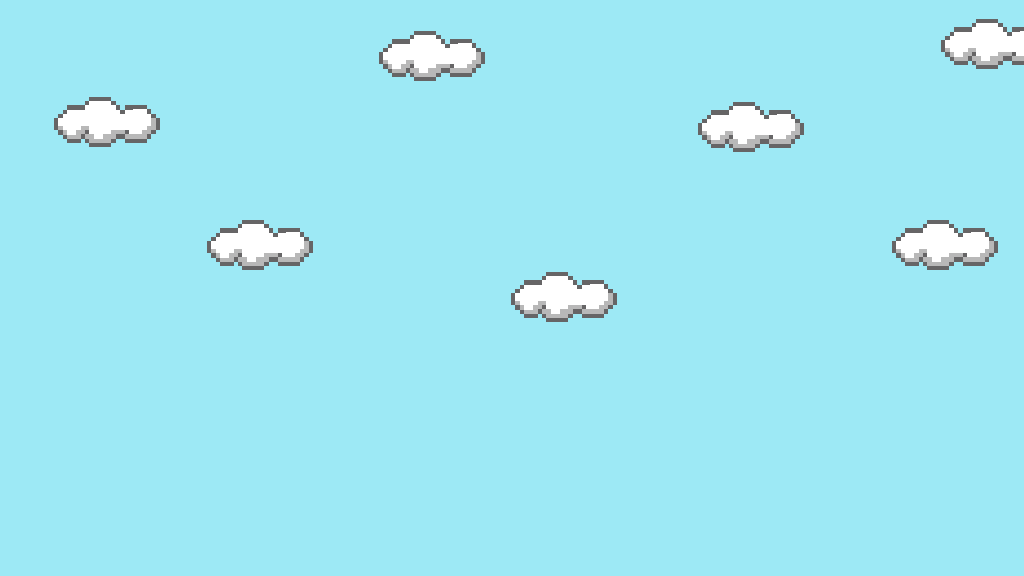
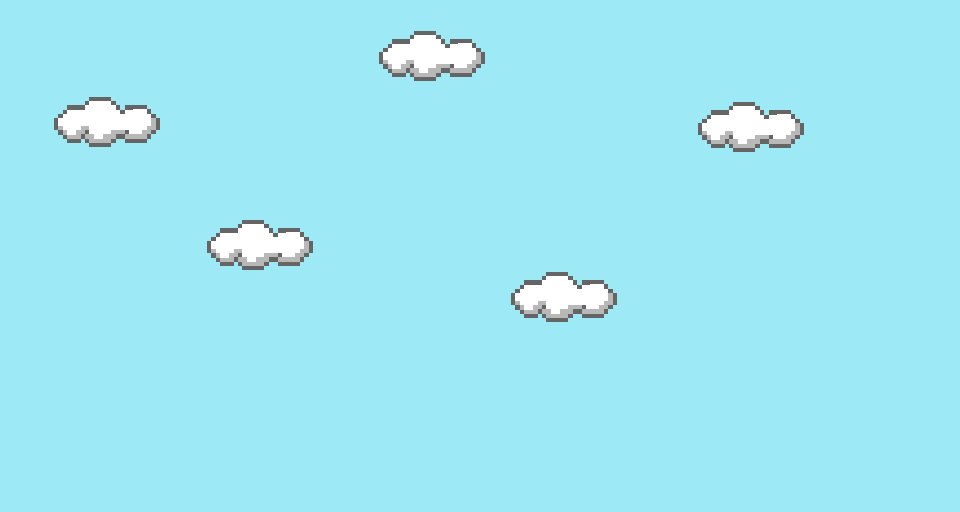
[ADD] coeur [CHANGE] taille paysage

diff --git a/testjeu/src/testjeu/ouverture.java b/testjeu/src/testjeu/ouverture.java
@@ -14,6 +14,10 @@ public class ouverture {
     // --- Image de fond (paysage du niveau) ---
     private BufferedImage paysage;
     private static final double SCALE_PAYSAGE = 2;
+    
+    // --- HUD : icônes de vies ---
+    private BufferedImage coeurPlein;
+    private BufferedImage coeurVide;
 
     // --- Entités du jeu ---
     public Avatar joueur;
@@ -24,38 +28,46 @@ public class ouverture {
 
     // --- Carte du niveau : 0 = vide, 1 = bloc ---
     // Chaque ligne représente une rangée de tuiles.
+    // taille de la paysage en pixelart: 960x512 (30x16)
     private int[][] carte = {
-        {0, 0, 0, 0, 0, 0, 0, 0, 0, 0, 0, 0, 0, 0, 0, 0, 0, 0, 0, 0, 0, 0, 0, 0, 0, 0, 0, 0, 0, 0, 0, 0},
-        {0, 0, 0, 0, 0, 0, 0, 0, 0, 0, 0, 0, 0, 0, 0, 0, 0, 0, 0, 0, 0, 0, 0, 0, 0, 0, 0, 0, 0, 0, 0, 0},
-        {0, 0, 0, 0, 0, 0, 0, 0, 0, 0, 0, 0, 0, 0, 0, 0, 0, 0, 0, 0, 0, 0, 0, 0, 0, 0, 0, 0, 0, 0, 0, 0},
-        {0, 0, 0, 0, 0, 0, 0, 0, 0, 0, 0, 0, 0, 0, 0, 0, 0, 0, 0, 0, 0, 0, 0, 0, 0, 0, 0, 0, 0, 0, 0, 0},
-        {0, 0, 0, 0, 0, 0, 0, 0, 0, 0, 0, 0, 0, 0, 0, 0, 0, 0, 0, 0, 0, 0, 0, 0, 0, 0, 0, 0, 0, 0, 0, 0},
-        {0, 0, 0, 0, 0, 0, 0, 0, 0, 0, 0, 0, 0, 0, 0, 0, 0, 0, 0, 0, 0, 0, 0, 0, 0, 0, 0, 0, 0, 0, 0, 0},
-        {0, 0, 0, 0, 0, 0, 0, 0, 0, 0, 0, 0, 0, 0, 0, 0, 0, 0, 0, 0, 0, 0, 0, 0, 0, 0, 0, 0, 0, 0, 0, 0},
-        {0, 0, 0, 0, 0, 0, 0, 0, 0, 0, 0, 0, 0, 0, 0, 0, 0, 0, 0, 0, 0, 0, 0, 0, 0, 0, 0, 0, 0, 0, 0, 0},
-        {0, 0, 0, 0, 0, 0, 0, 0, 0, 0, 0, 0, 0, 0, 0, 0, 0, 0, 0, 0, 0, 0, 0, 0, 0, 0, 0, 0, 0, 0, 0, 0},
-        {0, 0, 0, 0, 0, 0, 0, 0, 0, 0, 0, 0, 0, 0, 0, 0, 0, 0, 0, 0, 0, 0, 0, 0, 0, 0, 0, 0, 0, 0, 0, 0},
-        {0, 0, 0, 0, 0, 0, 0, 0, 0, 0, 0, 0, 0, 0, 0, 0, 0, 0, 0, 0, 0, 0, 0, 0, 0, 0, 0, 0, 0, 0, 0, 0},
-        {0, 0, 0, 0, 0, 0, 0, 0, 0, 0, 0, 0, 0, 0, 0, 0, 0, 0, 0, 0, 0, 0, 0, 0, 0, 0, 0, 0, 0, 0, 0, 0},
-        {0, 0, 0, 0, 0, 0, 0, 0, 0, 0, 0, 0, 0, 0, 0, 0, 0, 0, 0, 0, 0, 0, 0, 0, 0, 0, 0, 0, 0, 0, 0, 0},
-        {0, 0, 0, 0, 0, 0, 0, 0, 0, 0, 0, 0, 0, 0, 0, 0, 0, 0, 0, 0, 0, 0, 0, 0, 0, 0, 0, 0, 0, 0, 0, 0},
-        {0, 0, 0, 0, 0, 0, 0, 0, 0, 0, 0, 0, 0, 0, 0, 0, 0, 0, 0, 0, 0, 0, 0, 0, 0, 0, 0, 0, 0, 0, 0, 0},
-        {0, 0, 0, 0, 0, 0, 0, 0, 0, 0, 0, 1, 1, 1, 0, 0, 0, 0, 0, 0, 0, 0, 0, 0, 0, 0, 0, 0, 0, 0, 0, 0},
-        {1, 1, 1, 1, 1, 1, 1, 1, 0, 0, 0, 0, 0, 0, 0, 0, 0, 0, 0, 0, 0, 0, 0, 0, 0, 0, 0, 0, 0, 0, 0, 0},
-        {1, 1, 1, 1, 1, 1, 1, 1, 1, 1, 1, 1, 1, 1, 1, 1, 1, 1, 1, 0, 0, 0, 0, 0, 0, 0, 0, 0, 0, 0, 0, 0}
+        {0, 0, 0, 0, 0, 0, 0, 0, 0, 0, 0, 0, 0, 0, 0, 0, 0, 0, 0, 0, 0, 0, 0, 0, 0, 0, 0, 0, 0, 0},
+        {0, 0, 0, 0, 0, 0, 0, 0, 0, 0, 0, 0, 0, 0, 0, 0, 0, 0, 0, 0, 0, 0, 0, 0, 0, 0, 0, 0, 0, 0},
+        {0, 0, 0, 0, 0, 0, 0, 0, 0, 0, 0, 0, 0, 0, 0, 0, 0, 0, 0, 0, 0, 0, 0, 0, 0, 0, 0, 0, 0, 0},
+        {0, 0, 0, 0, 0, 0, 0, 0, 0, 0, 0, 0, 0, 0, 0, 0, 0, 0, 0, 0, 0, 0, 0, 0, 0, 0, 0, 0, 0, 0},
+        {0, 0, 0, 0, 0, 0, 0, 0, 0, 0, 0, 0, 0, 0, 0, 0, 0, 0, 0, 0, 0, 0, 0, 0, 0, 0, 0, 0, 0, 0},
+        {0, 0, 0, 0, 0, 0, 0, 0, 0, 0, 0, 0, 0, 0, 0, 0, 0, 0, 0, 0, 0, 0, 0, 0, 0, 0, 0, 0, 0, 0},
+        {0, 0, 0, 0, 0, 0, 0, 0, 0, 0, 0, 0, 0, 0, 0, 0, 0, 0, 0, 0, 0, 0, 0, 0, 0, 0, 0, 0, 0, 0},
+        {0, 0, 0, 0, 0, 0, 0, 0, 0, 0, 0, 0, 0, 0, 0, 0, 0, 0, 0, 0, 0, 0, 0, 0, 0, 0, 0, 0, 0, 0},
+        {0, 0, 0, 0, 0, 0, 0, 0, 0, 0, 0, 0, 0, 0, 0, 0, 0, 0, 0, 0, 0, 0, 0, 0, 0, 0, 0, 0, 0, 0},
+        {0, 0, 0, 0, 0, 0, 0, 0, 0, 0, 0, 0, 0, 0, 0, 0, 0, 0, 0, 0, 0, 0, 0, 0, 0, 0, 0, 0, 0, 0},
+        {0, 0, 0, 0, 0, 0, 0, 0, 0, 0, 0, 0, 0, 0, 0, 0, 0, 0, 0, 0, 0, 0, 0, 0, 0, 0, 0, 0, 0, 0},
+        {0, 0, 0, 0, 0, 0, 0, 0, 0, 0, 0, 0, 0, 0, 0, 0, 0, 0, 0, 0, 0, 0, 0, 0, 0, 0, 0, 0, 0, 1},
+        {0, 0, 0, 0, 0, 0, 0, 0, 0, 0, 0, 0, 0, 0, 0, 0, 0, 0, 0, 0, 0, 0, 0, 0, 0, 0, 0, 0, 0, 0},
+        {0, 0, 0, 0, 0, 0, 0, 0, 0, 0, 0, 0, 0, 0, 0, 0, 0, 1, 1, 1, 0, 0, 0, 1, 1, 1, 0, 0, 0, 0},
+        {0, 0, 0, 0, 0, 0, 0, 0, 0, 0, 0, 0, 0, 0, 0, 0, 0, 0, 0, 0, 0, 0, 0, 0, 0, 0, 0, 0, 0, 0},
+        {1, 1, 1, 1, 1, 1, 1, 1, 1, 0, 0, 0, 1, 1, 1, 0, 0, 0, 0, 0, 0, 0, 0, 0, 0, 0, 0, 0, 0, 0}
     };
 
     public ouverture() {
         // --- Chargement et redimensionnement de l’image de fond ---
         try {
-            BufferedImage imgOriginal = ImageIO.read(
-                getClass().getClassLoader().getResource("testjeu/image/paysage.png")
-            );
+            BufferedImage imgOriginal = ImageIO.read(getClass().getClassLoader().getResource("testjeu/image/paysage.png"));
 
             int nouvelleLargeur = (int) (imgOriginal.getWidth() * SCALE_PAYSAGE);
             int nouvelleHauteur = (int) (imgOriginal.getHeight() * SCALE_PAYSAGE);
 
             this.paysage = redimensionner(imgOriginal, nouvelleLargeur, nouvelleHauteur);
+            
+            coeurPlein = ImageIO.read(
+                    getClass().getClassLoader().getResource("testjeu/image/coeurPlein.png")
+            );
+
+            coeurVide = ImageIO.read(
+                    getClass().getClassLoader().getResource("testjeu/image/coeurVide.png")
+            );
+
+
+            
         } catch (IOException ex) {
             Logger.getLogger(ouverture.class.getName()).log(Level.SEVERE, null, ex);
         }
@@ -83,6 +95,30 @@ public class ouverture {
     public void reinitialiserJeu() {
         this.joueur = new Avatar();
         // Si un jour tu as des ennemis ou autres états, tu pourras aussi les réinitialiser ici.
+    }
+    
+    private void dessinerVies(Graphics2D contexte) {
+        int viesActuelles = joueur.getVies();
+        int viesMax = joueur.getViesMax();
+
+        int margeX = 20;
+        int margeY = 20;
+        int espacement = 10;
+
+        int largeurCoeur = coeurPlein.getWidth();
+        int hauteurCoeur = coeurPlein.getHeight();
+
+        for (int i = 0; i < viesMax; i++) {
+
+            int x = margeX + i * (largeurCoeur + espacement);
+            int y = margeY;
+
+            if (i < viesActuelles) {
+                contexte.drawImage(coeurPlein, x, y, null);
+            } else {
+                contexte.drawImage(coeurVide, x, y, null);
+            }
+        }
     }
 
     // Redimensionner une image (utilisé pour le paysage)
@@ -120,27 +156,24 @@ public class ouverture {
         for (Obstacle b : blocs) {
             b.rendu(contexte);
         }
+        // 4. Dessiner tous les coeurs de ve
+        dessinerVies(contexte);
         
+        // 5. Si c’est game over…
         if (joueur.getVies() <= 0) {
-            // fond semi-transparent simple (facultatif)
-            contexte.setColor(new java.awt.Color(0, 0, 0, 150)); // noir avec transparence
-            contexte.fillRect(0, 0, paysage.getWidth(), paysage.getHeight());
 
-            // texte "GAME OVER"
-            contexte.setColor(java.awt.Color.WHITE);
-            contexte.setFont(new java.awt.Font("Arial", java.awt.Font.BOLD, 48));
-            String msg = "GAME OVER";
-            String msg2 = "Appuyez sur ESPACE pour recommencer";
+            BufferedImage imgGO = joueur.getGameOverImage();
 
-            // centrer approximativement le texte
-            int centreX = paysage.getWidth() / 2;
-            int centreY = paysage.getHeight() / 2;
+            // dessine l’image au centre de l’écran
+            int x = (paysage.getWidth() - imgGO.getWidth()) / 2;
+            int y = (paysage.getHeight() - imgGO.getHeight()) / 2;
 
-            // Dessin du texte principal
-            contexte.drawString(msg, centreX - 150, centreY - 20);
-            // Dessin de la consigne
-            contexte.setFont(new java.awt.Font("Arial", java.awt.Font.PLAIN, 24));
-            contexte.drawString(msg2, centreX - 230, centreY + 20);
+            contexte.drawImage(imgGO, x, y, null);
+
+            contexte.setColor(new java.awt.Color(0,0,0,100));
+            contexte.fillRect(0,0,paysage.getWidth(),paysage.getHeight());
+            contexte.drawImage(imgGO, x, y, null);
+
         }
     }
 }

diff --git a/testjeu/src/testjeu/Avatar.java b/testjeu/src/testjeu/Avatar.java
@@ -21,7 +21,8 @@ public class Avatar {
 
 
     // --- Vies du joueur ---
-    private int vies = 3;                  // nombre de vies au départ
+    private int viesMax = 3;               // nombre de vies maximum
+    private int vies = viesMax;            // nombre de vies au départ
     private boolean enVie = true;          // true tant que le personnage est vivant
     private double xinit, yinit; // position de réapparition (respawn)
 
@@ -275,6 +276,11 @@ public class Avatar {
             enVie = false;
         }
     }
+    
+    // --- Rendu graphique du game over ---
+    public BufferedImage getGameOverImage() {
+        return game_over;
+    }
 
     // --- Rendu graphique du joueur ---
     public void rendu(Graphics2D contexte) {
@@ -309,6 +315,11 @@ public class Avatar {
 
     public boolean estEnVie() {
         return enVie;
+    }
+    
+    // nombre de vies maximum (pour dessiner les cœurs vides)
+    public int getViesMax() {
+        return viesMax;
     }
 
 }
